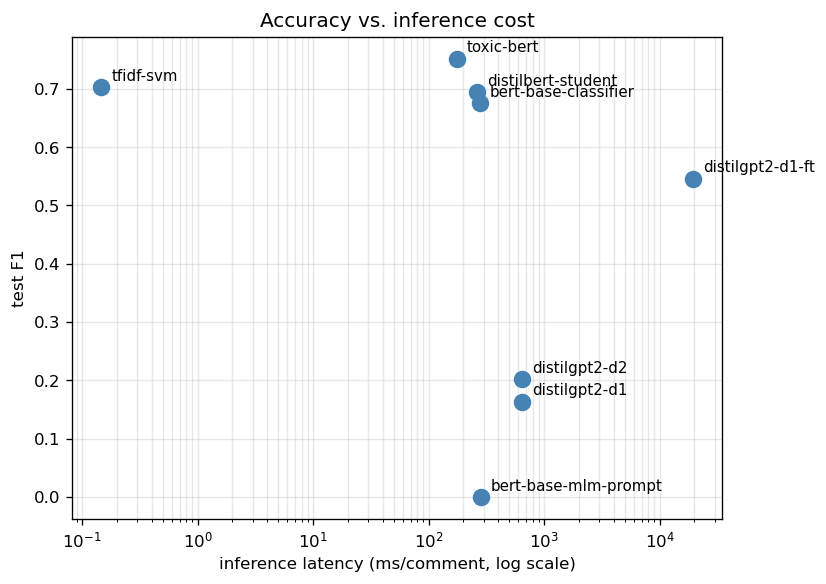
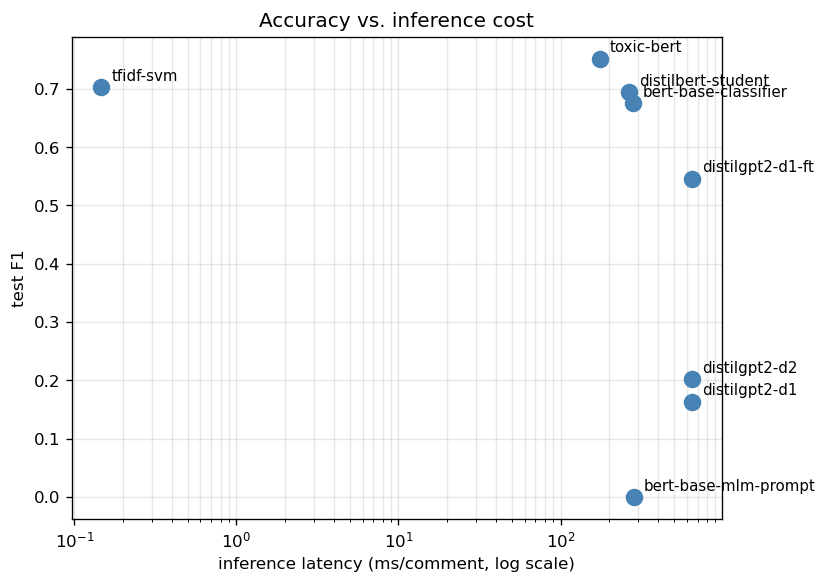
Keep only the figures in report/, refresh README timings and comparison results

diff --git a/README.md b/README.md
@@ -89,17 +89,15 @@ classifier scores 90%.
 |---|---|---|---|---|---|
 | `toxic-bert` (E2) | 109M | **0.752** | **0.835** | **0.979** | 175 |
 | `tfidf-svm` (E0) | 50k | 0.703 | 0.784 | 0.958 | **0.1** |
-| `distilbert-student` (S1) | 67M | 0.695 | 0.786 | 0.966 | 263 |
-| `bert-base-classifier` (E1) | 109M | 0.675 | 0.791 | 0.961 | 278 |
-| `distilgpt2-d1-ft` | 82M | 0.546 | 0.732 | 0.961 | † |
-| `distilgpt2-d2` (0-shot) | 82M | 0.202 | 0.098 | 0.457 | 645 |
-| `distilgpt2-d1` (0-shot) | 82M | 0.163 | 0.100 | 0.389 | 649 |
-| `bert-base-mlm-prompt` (E1-p) | 109M | 0.000\* | 0.227 | 0.722 | 283 |
+| `distilbert-student` (S1) | 67M | 0.695 | 0.786 | 0.966 | ~250 |
+| `bert-base-classifier` (E1) | 109M | 0.675 | 0.791 | 0.961 | ~300 |
+| `distilgpt2-d1-ft` | 82M | 0.546 | 0.732 | 0.961 | ~650 |
+| `distilgpt2-d2` (0-shot) | 82M | 0.202 | 0.098 | 0.457 | ~650 |
+| `distilgpt2-d1` (0-shot) | 82M | 0.163 | 0.100 | 0.389 | ~650 |
+| `bert-base-mlm-prompt` (E1-p) | 109M | 0.000\* | 0.227 | 0.722 | ~300 |
 
 \* A calibration artefact, not a discrimination failure: E1-p's scores almost never
 cross 0.5, yet it ranks far better than the zero-shot decoders.
-† Timing window corrupted by a machine suspend; D1-ft shares D1's scoring path, so expect ≈650 ms.
-With fewer than 100 positives in the subset, F1 gaps below ~0.05 are within sampling noise.
 
 ![F1 and PR-AUC](report/figures/model_comparison_bars_test.png)
 
@@ -318,7 +316,7 @@ scripts/     one CLI entry point per download / training run / experiment / plot
 notebooks/   01 EDA + toxic-bert smoke test, 02 decoder smoke test,
              09 distillation (Colab), 10 decoder fine-tune (Colab)
 docs/        DEVELOPER_GUIDE.md: programmatic API and a walk-through of each experiment
-report/      figures/ (all report figures) and the presentation deck
+report/      figures/ (all figures referenced by the README)
 data/        raw CSVs (gitignored) + result JSONs (committed)
 models/      gitignored: downloaded and self-trained weights
 ```
